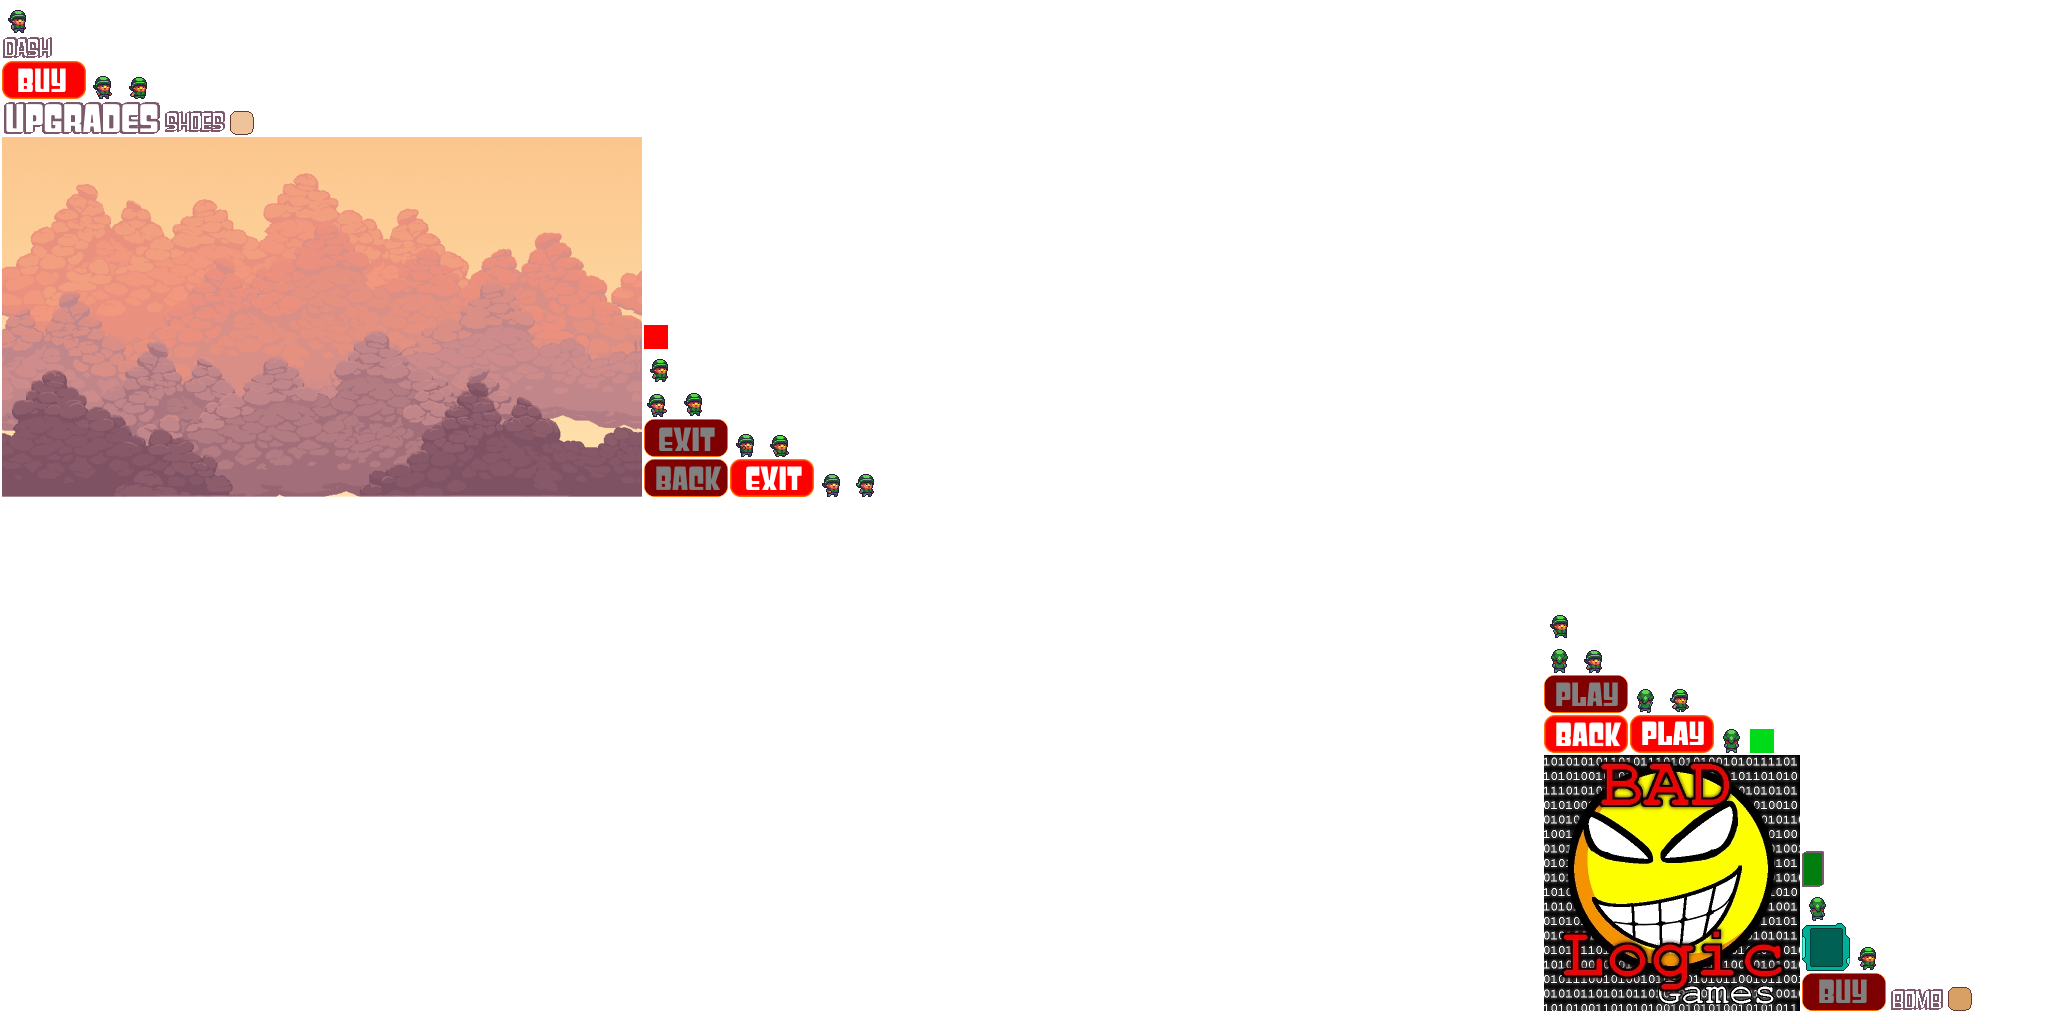
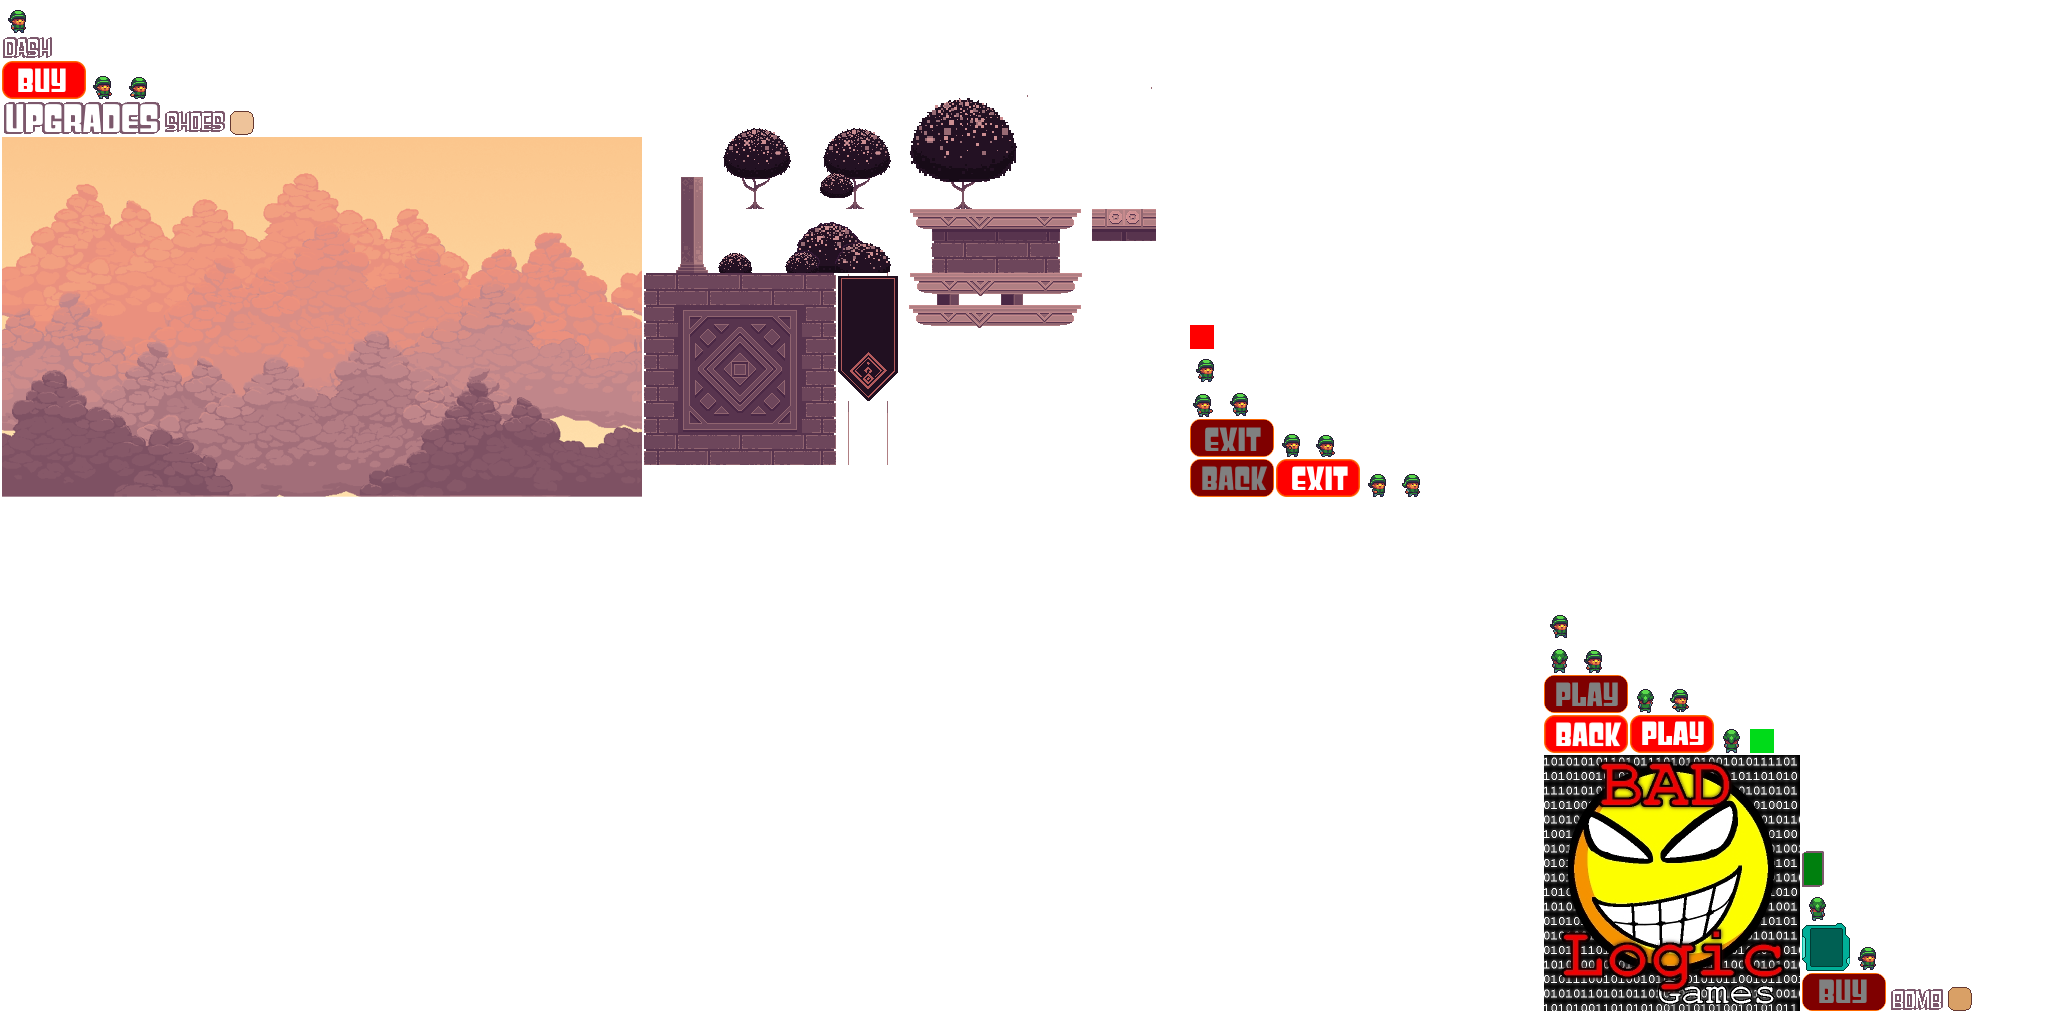
Added Tile Layers
Tile layer objects can be used to render tiled tile layers on the playground gamelayer.

Changed region(s): [[0.3125, 0.0938, 0.5625, 0.5], [0.5625, 0.3125, 0.6875, 0.5]]

diff --git a/core/src/com/kyperbox/util/TileLayerRenderer.java b/core/src/com/kyperbox/util/TileLayerRenderer.java
@@ -1,13 +1,5 @@
 package com.kyperbox.util;
 
-import com.badlogic.gdx.graphics.Color;
-import com.badlogic.gdx.graphics.g2d.Batch;
-import com.badlogic.gdx.graphics.g2d.TextureRegion;
-import com.badlogic.gdx.maps.tiled.TiledMapTile;
-import com.badlogic.gdx.maps.tiled.TiledMapTileLayer;
-import com.badlogic.gdx.maps.tiled.TiledMapTileLayer.Cell;
-import com.badlogic.gdx.math.Rectangle;
-
 import static com.badlogic.gdx.graphics.g2d.Batch.C1;
 import static com.badlogic.gdx.graphics.g2d.Batch.C2;
 import static com.badlogic.gdx.graphics.g2d.Batch.C3;
@@ -29,15 +21,29 @@ import static com.badlogic.gdx.graphics.g2d.Batch.Y2;
 import static com.badlogic.gdx.graphics.g2d.Batch.Y3;
 import static com.badlogic.gdx.graphics.g2d.Batch.Y4;
 
+import com.badlogic.gdx.graphics.Color;
+import com.badlogic.gdx.graphics.g2d.Batch;
+import com.badlogic.gdx.graphics.g2d.TextureRegion;
+import com.badlogic.gdx.maps.tiled.TiledMapTile;
+import com.badlogic.gdx.maps.tiled.TiledMapTileLayer;
+import com.badlogic.gdx.maps.tiled.TiledMapTileLayer.Cell;
+import com.badlogic.gdx.math.Rectangle;
+import com.badlogic.gdx.math.Vector2;
+import com.kyperbox.objects.GameLayer.LayerCamera;
+import com.kyperbox.objects.GameObject;
+
 public class TileLayerRenderer {
 	static protected final int NUM_VERTICES = 20;
 	private float unit_scale;
 	private Rectangle view_bounds;
+	private Vector2 pos;
 	private float vertices[] = new float[NUM_VERTICES];
-	
-	public TileLayerRenderer() {
+	private GameObject object;
+	public TileLayerRenderer(GameObject object) {
+		this.object = object;
 		view_bounds = new Rectangle();
 		unit_scale = 1.0f;
+		pos = new Vector2(0,0);
 	}
 	
 	public Rectangle getViewBounds() {
@@ -57,41 +63,49 @@ public class TileLayerRenderer {
 	}
 	
 	public void renderTileLayer (TiledMapTileLayer layer,Batch batch) {
+		LayerCamera cam = object.getGameLayer().getCamera();
+		pos.set(0, 0);
+		pos = cam.unproject(pos);
+		view_bounds.set(pos.x, pos.y, object.getGame().getView().getWorldWidth(), object.getGame().getView().getWorldHeight());
+		unit_scale = (object.getScaleX()+object.getScaleY())/2f;
 		final Color batchColor = batch.getColor();
 		final float color = Color.toFloatBits(batchColor.r, batchColor.g, batchColor.b, batchColor.a * layer.getOpacity());
 
-		final int layerWidth = layer.getWidth();
-		final int layerHeight = layer.getHeight();
+		final int layer_width = layer.getWidth();
+		final int layer_height = layer.getHeight();
 
-		final float layerTileWidth = layer.getTileWidth() * unit_scale;
-		final float layerTileHeight = layer.getTileHeight() * unit_scale;
+		final float layer_tilewidth = layer.getTileWidth() * unit_scale;
+		final float layer_tileheight = layer.getTileHeight() * unit_scale;
 
-		final float layerOffsetX = layer.getRenderOffsetX() * unit_scale;
-		// offset in tiled is y down, so we flip it
-		final float layerOffsetY = -layer.getRenderOffsetY() * unit_scale;
+		
+		final float offset_x = object.getX() * unit_scale;
+		final float offset_y = object.getY() * unit_scale;
 
-		final int col1 = Math.max(0, (int)((view_bounds.x - layerOffsetX) / layerTileWidth));
-		final int col2 = Math.min(layerWidth,
-			(int)((view_bounds.x + view_bounds.width + layerTileWidth - layerOffsetX) / layerTileWidth));
+		final int col1 = Math.max(0, (int)((view_bounds.x - offset_x) / layer_tilewidth));
+		final int col2 = Math.min(layer_width,
+			(int)((view_bounds.x + view_bounds.width + layer_tilewidth - offset_x) / layer_tilewidth));
 
-		final int row1 = Math.max(0, (int)((view_bounds.y - layerOffsetY) / layerTileHeight));
-		final int row2 = Math.min(layerHeight,
-			(int)((view_bounds.y + view_bounds.height + layerTileHeight - layerOffsetY) / layerTileHeight));
+		final int row1 = Math.max(0, (int)((view_bounds.y - offset_y) / layer_tileheight));
+		final int row2 = Math.min(layer_height,
+			(int)((view_bounds.y + view_bounds.height + layer_tileheight - offset_y) / layer_tileheight));
 
-		float y = row2 * layerTileHeight + layerOffsetY;
-		float xStart = col1 * layerTileWidth + layerOffsetX;
+		float y = row2 * layer_tileheight + offset_y;
+		float xStart = col1 * layer_tilewidth + offset_x;
 		final float[] vertices = this.vertices;
 
+
+	
 		for (int row = row2; row >= row1; row--) {
+			
 			float x = xStart;
 			for (int col = col1; col < col2; col++) {
+				
 				final TiledMapTileLayer.Cell cell = layer.getCell(col, row);
 				if (cell == null) {
-					x += layerTileWidth;
+					x += layer_tilewidth;
 					continue;
 				}
 				final TiledMapTile tile = cell.getTile();
-
 				if (tile != null) {
 					final boolean flipX = cell.getFlipHorizontally();
 					final boolean flipY = cell.getFlipVertically();
@@ -197,10 +211,11 @@ public class TileLayerRenderer {
 						}
 					}
 					batch.draw(region.getTexture(), vertices, 0, NUM_VERTICES);
+					
 				}
-				x += layerTileWidth;
+				x += layer_tilewidth;
 			}
-			y -= layerTileHeight;
+			y -= layer_tileheight;
 		}
 	}
 

diff --git a/core/src/com/kyperbox/util/KyperMapLoader.java b/core/src/com/kyperbox/util/KyperMapLoader.java
@@ -11,6 +11,7 @@ import com.badlogic.gdx.graphics.Texture;
 import com.badlogic.gdx.graphics.Texture.TextureFilter;
 import com.badlogic.gdx.graphics.g2d.TextureAtlas;
 import com.badlogic.gdx.graphics.g2d.TextureAtlas.AtlasRegion;
+import com.badlogic.gdx.graphics.g2d.TextureRegion;
 import com.badlogic.gdx.maps.MapProperties;
 import com.badlogic.gdx.maps.tiled.AtlasTmxMapLoader;
 import com.badlogic.gdx.maps.tiled.BaseTmxMapLoader;
@@ -262,11 +263,12 @@ public class KyperMapLoader extends BaseTmxMapLoader<AtlasTmxMapLoader.AtlasTile
 			int tileheight = element.getIntAttribute("tileheight", 0);
 			int spacing = element.getIntAttribute("spacing", 0);
 			int margin = element.getIntAttribute("margin", 0);
-			int tilecount = element.getIntAttribute("tilecount", 1);
 			String source = element.getAttribute("source", null);
 			int offsetX = 0;
 			int offsetY = 0;
-
+			
+			
+			
 			String imageSource = "";
 			int imageWidth = 0, imageHeight = 0;
 
@@ -281,8 +283,6 @@ public class KyperMapLoader extends BaseTmxMapLoader<AtlasTmxMapLoader.AtlasTile
 					tileheight = element.getIntAttribute("tileheight", 0);
 					spacing = element.getIntAttribute("spacing", 0);
 					margin = element.getIntAttribute("margin", 0);
-					tilecount = element.getIntAttribute("tilecount", 1);
-					KyperBoxGame.log("kypermaploader:", "tilecount = "+tilecount);
 					Element offset = element.getChildByName("tileoffset");
 					if (offset != null) {
 						offsetX = offset.getIntAttribute("x", 0);
@@ -308,6 +308,7 @@ public class KyperMapLoader extends BaseTmxMapLoader<AtlasTmxMapLoader.AtlasTile
 				Element imageElement = element.getChildByName("image");
 				if (imageElement != null) {
 					imageSource = imageElement.getAttribute("source");
+					imageSource.replace("../../input_assets", "");
 					imageWidth = imageElement.getIntAttribute("width", 0);
 					imageHeight = imageElement.getIntAttribute("height", 0);
 					image = getRelativeFileHandle(tmxFile, imageSource);
@@ -338,19 +339,32 @@ public class KyperMapLoader extends BaseTmxMapLoader<AtlasTmxMapLoader.AtlasTile
 			tileset.setName(name);
 			props.put("firstgid", firstgid);
 			props.put("imagesource", imageSource);
+			
 			props.put("imagewidth", imageWidth);
 			props.put("imageheight", imageHeight);
 			props.put("tilewidth", tilewidth);
 			props.put("tileheight", tileheight);
 			props.put("margin", margin);
 			props.put("spacing", spacing);
-
+			
+			
+				
 			if (imageSource != null && imageSource.length() > 0) {
 				int lastgid = firstgid + ((imageWidth / tilewidth) * (imageHeight / tileheight)) - 1;
-				for (AtlasRegion region : atlas.findRegions(regionsName)) {
-					// handle unused tile ids
+				
+				TextureRegion[][] regions = atlas.findRegion(regionsName).split(tilewidth,tileheight);
+				int h = regions.length;
+				int w = regions[0].length;
+				
+				for(int i = 0;i < w*h;i++) {
+					int row = i % w;
+					int col = i / w;
+					
+					TextureRegion region = regions[col][row];
 					if (region != null) {
-						int tileid = region.index + firstgid;
+						
+						int tileid = firstgid+i;
+						KyperBoxGame.log("tilemap -------------", "tileid:"+tileid);
 						if (tileid >= firstgid && tileid <= lastgid) {
 							StaticTiledMapTile tile = new StaticTiledMapTile(region);
 							tile.setId(tileid);
@@ -360,12 +374,27 @@ public class KyperMapLoader extends BaseTmxMapLoader<AtlasTmxMapLoader.AtlasTile
 						}
 					}
 				}
+//				for (AtlasRegion region : atlas.findRegions(regionsName)) {
+//					// handle unused tile ids
+//					if (region != null) {
+//						int tileid = region.index + firstgid;
+//						if (tileid >= firstgid && tileid <= lastgid) {
+//							StaticTiledMapTile tile = new StaticTiledMapTile(region);
+//							tile.setId(tileid);
+//							tile.setOffsetX(offsetX);
+//							tile.setOffsetY(flipY ? -offsetY : offsetY);
+//							tileset.putTile(tileid, tile);
+//						}
+//					}
+//				}
 			}
 
 			for (Element tileElement : element.getChildrenByName("tile")) {
 				int tileid = firstgid + tileElement.getIntAttribute("id", 0);
+				
 				TiledMapTile tile = tileset.getTile(tileid);
 				if (tile == null) {
+					
 					Element imageElement = tileElement.getChildByName("image");
 					if (imageElement != null) {
 						// Is a tilemap with individual images.

diff --git a/core/src/com/kyperbox/GameState.java b/core/src/com/kyperbox/GameState.java
@@ -46,6 +46,7 @@ public class GameState {
 	private GameLayer foreground;
 	private GameLayer uiground;
 	private UserData user_data;
+	private TiledMap map_data;
 	
 	private ObjectMap<String,BitmapFont> fonts;
 	
@@ -85,7 +86,7 @@ public class GameState {
 		//load game state
 		game.loadTiledMap(tmx);
 		game.getAssetManager().finishLoading();
-		TiledMap data = game.getTiledMap(tmx);
+		map_data = game.getTiledMap(tmx);
 		user_data = new UserData(tmx+"(data)");
 		
 		
@@ -99,7 +100,7 @@ public class GameState {
 		uiground = new GameLayer(this);
 		uiground.setName("uiground_");
 		
-		String atlas_name = data.getProperties().get("atlas", String.class);
+		String atlas_name = map_data.getProperties().get("atlas", String.class);
 		atlas_name = atlas_name.substring(atlas_name.lastIndexOf("/"), atlas_name.length());
 		atlas_name = atlas_name.replace("/", "");
 		
@@ -113,17 +114,17 @@ public class GameState {
 		}
 
 		//do preload
-		loadFonts(data, data.getProperties().get("atlas",String.class));
+		loadFonts(map_data, map_data.getProperties().get("atlas",String.class));
 		//load UI
 		
-		loadUi(data.getLayers().get("uiground"), game.getAtlas(atlas_name));
+		loadUi(map_data.getLayers().get("uiground"), game.getAtlas(atlas_name));
 		
 		//load foreground
-		loadLayer(foreground,data.getLayers().get("foreground"));		
+		loadLayer(foreground,map_data.getLayers().get("foreground"));		
 		//load Playground
-		loadLayer(playground,data.getLayers().get("playground"));
+		loadLayer(playground,map_data.getLayers().get("playground"));
 		//load background
-		loadLayer(background,data.getLayers().get("background"));
+		loadLayer(background,map_data.getLayers().get("background"));
 
 	
 		
@@ -139,7 +140,11 @@ public class GameState {
 		log("initiated");
 	}
 	
-	public UserData getData() {
+	public TiledMap getMapData() {
+		return map_data;
+	}
+	
+	public UserData getUserData() {
 		return user_data;
 	}
 	

diff --git a/core/src/com/kyperbox/objects/TilemapLayerObject.java b/core/src/com/kyperbox/objects/TilemapLayerObject.java
@@ -1,0 +1,35 @@
+package com.kyperbox.objects;
+
+import com.badlogic.gdx.graphics.g2d.Batch;
+import com.badlogic.gdx.maps.MapProperties;
+import com.badlogic.gdx.maps.tiled.TiledMapTileLayer;
+import com.badlogic.gdx.maps.tiled.TiledMapTileLayer.Cell;
+import com.kyperbox.util.TileLayerRenderer;
+
+public class TilemapLayerObject extends GameObject{
+	
+	private TiledMapTileLayer tiles;
+	private TileLayerRenderer render;
+	
+	
+	@Override
+	public void init(MapProperties properties) {
+		super.init(properties);
+		
+		tiles = (TiledMapTileLayer) getState().getMapData().getLayers().get(properties.get("tile_layer", String.class));
+		setSize(tiles.getWidth()*tiles.getTileWidth(), tiles.getHeight()*tiles.getTileHeight());
+		render = new TileLayerRenderer(this);
+			
+	}
+	
+	@Override
+	public void draw(Batch batch, float parentAlpha) {
+		render.renderTileLayer(tiles, batch);
+		super.draw(batch, parentAlpha);
+	}
+	
+	public Cell getCellAt(int x,int y) {
+		return tiles.getCell(x, y);
+	}
+
+}

diff --git a/core/src/com/kyperbox/objects/ScrollingBackground.java b/core/src/com/kyperbox/objects/ScrollingBackground.java
@@ -40,7 +40,7 @@ public class ScrollingBackground extends GameObject{
 		repeat_horizontal = properties.get("repeat_horizontal",false,Boolean.class);
 		if(image == null || image.isEmpty())
 			getState().error("background ["+getName()+"] image not set.");
-		background =getGame().getAtlas(getState().getData().getString("map_atlas")).findRegion(image);
+		background =getGame().getAtlas(getState().getUserData().getString("map_atlas")).findRegion(image);
 		size = 1;
 		xoff = 0;
 		yoff = 0;

diff --git a/core/src/com/kyperbox/managers/StateManager.java b/core/src/com/kyperbox/managers/StateManager.java
@@ -15,7 +15,7 @@ public abstract class StateManager {
 		return state;
 	}
 	
-	public UserData getStateData() {return state.getData();}
+	public UserData getStateData() {return state.getUserData();}
 	
 	/**
 	 * called before all layer data is instantiated

diff --git a/core/src/com/kyperbox/KyperBoxGame.java b/core/src/com/kyperbox/KyperBoxGame.java
@@ -77,6 +77,10 @@ public abstract class KyperBoxGame extends ApplicationAdapter {
 		initiate();
 	}
 	
+	public Stage getGameState() {
+		return game_stage;
+	}
+	
 	public Viewport getView() {
 		return view;
 	}
